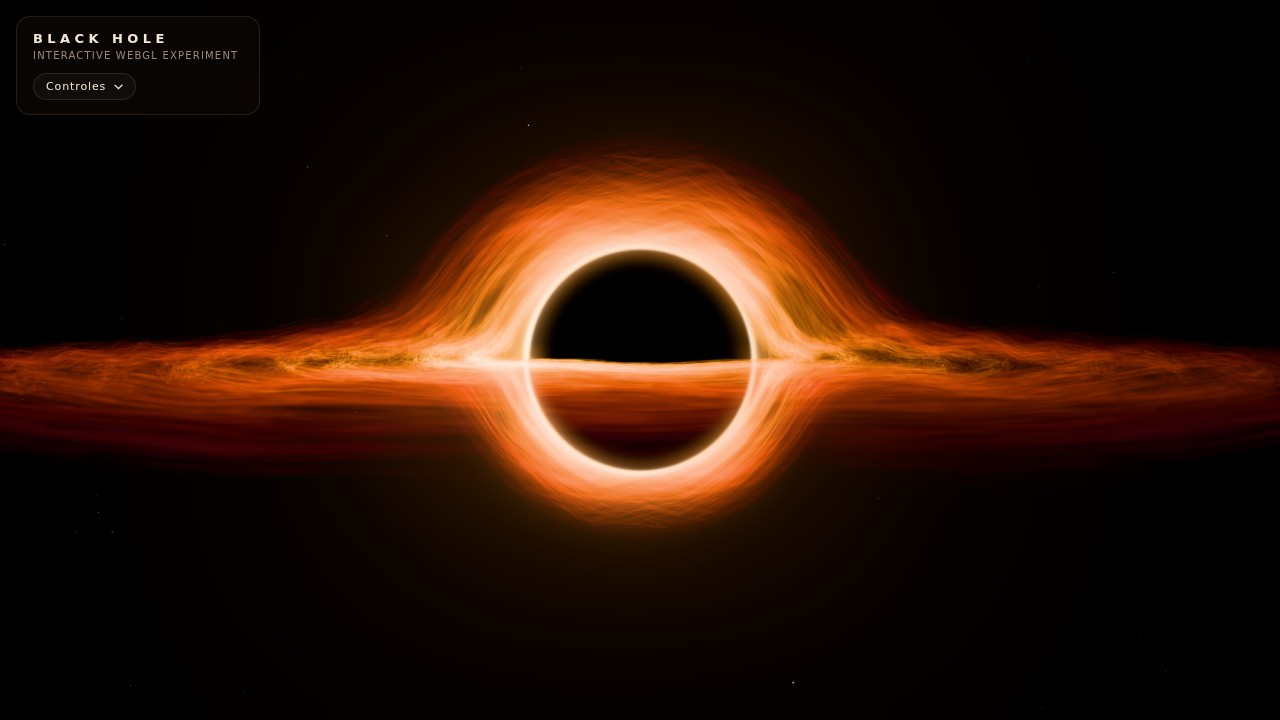
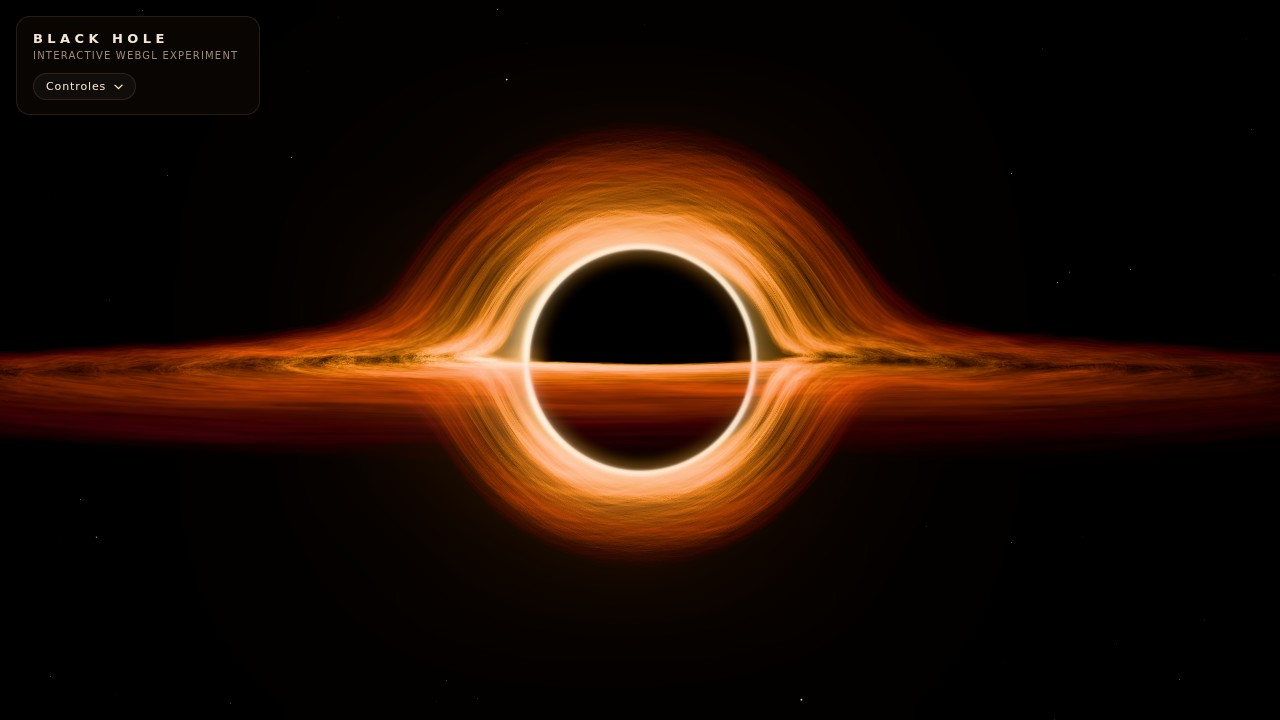
docs: document the GPU-aware launcher and the ultra profile
How iniciar.bat handles the dedicated GPU, the ?quality=ultra option, the per-GPU profile table and a new preview image.

Claude-Session: https://claude.ai/code/session_01WNvQ1jyMgnK9oouhRVHoRH

Changed region(s): [[0.0, 0.1833, 1.0, 0.7639]]

diff --git a/README.md b/README.md
@@ -21,10 +21,11 @@ Tudo roda no navegador, direto de arquivos estáticos: não há `npm install`, b
 
 - **Horizonte de eventos** totalmente preto, que nenhuma luz revela.
 - **Photon ring** fino e brilhante com aura quente (branco → amarelo → laranja → vermelho).
-- **Disco de acreção com ~60 000 fragmentos** (36 000 em GPUs integradas, 20 000 em celulares) desenhados em uma única geometria instanciada.
+- **Disco de acreção com até 110 000 fragmentos** em placas dedicadas (60 000 no perfil alto, 36 000 em GPUs integradas, 20 000 em celulares), desenhados em uma única geometria instanciada.
 - **Órbitas keplerianas**: fragmentos internos giram muito mais rápido que os externos (`ω ∝ r^-3/2`).
 - **Turbulência procedural** com *simplex noise*, que tira o disco do plano e ondula as trilhas.
 - **Temperatura por raio**: branco/amarelo perto do centro, laranja no meio e vermelho escuro nas bordas. As trilhas "esfriam" (ficam mais vermelhas) enquanto desaparecem.
+- **Anéis e sulcos concêntricos** (dois harmônicos de brilho) e **ondas espirais de densidade**: um padrão de dois braços que gira mais devagar que o gás e deixa a rotação visível mesmo nas regiões densas.
 - **Doppler relativístico aproximado**: o lado que vem em direção à câmera fica mais claro e quente, e o lado oposto mais escuro e avermelhado.
 - **Lente gravitacional aproximada**: o disco de trás se curva por cima da sombra e forma um arco secundário por baixo. As estrelas do fundo também são lenteadas.
 - **Campo de estrelas discreto**, com leve paralaxe e cintilação.
@@ -56,9 +57,17 @@ O Three.js é carregado via **importmap** a partir do jsDelivr. Nenhuma outra bi
 
 1. Baixe o projeto (*Code → Download ZIP*) e extraia a pasta.
 2. Dê dois cliques em **`iniciar.bat`**.
-3. O navegador abre sozinho em `http://localhost:8000`. Deixe a janela preta aberta enquanto usa o projeto e feche-a para parar.
+3. Na primeira vez, a janela preta pergunta se pode configurar o Windows para usar a **placa de vídeo de alto desempenho** no navegador. Aperte **Enter** (sim) ou digite `n`.
+4. O projeto abre numa janela própria do Chrome (ou Edge), já pedindo a placa dedicada. Deixe a janela preta aberta enquanto usa o projeto e feche-a para parar.
 
 O `iniciar.bat` roda `tools/servidor.ps1`, um mini servidor em PowerShell, que já vem no Windows, então não é preciso instalar nada. Se o Windows perguntar se pode executar o arquivo baixado, clique em *Mais informações → Executar assim mesmo*.
+
+Sobre a placa de vídeo, o iniciador faz duas coisas:
+
+- **Abre o projeto numa janela separada do Chrome/Edge**, com perfil próprio em `%LOCALAPPDATA%\BlackHole` e a opção `--force-high-performance-gpu`. Por ser outra instância do navegador, isso funciona mesmo com o seu Chrome já aberto e não mexe nas suas abas nem no seu perfil.
+- **Se você aceitar**, grava a preferência "Alto desempenho" do Windows para o navegador. É exatamente o que a tela *Configurações → Sistema → Tela → Elementos gráficos* faz, e pode ser desfeito por lá. Se responder `n`, ele não pergunta de novo.
+
+Para abrir no navegador padrão, numa aba comum, rode `powershell -ExecutionPolicy Bypass -File tools\servidor.ps1 -DefaultBrowser`.
 
 ### Qualquer sistema: um servidor estático
 
@@ -79,7 +88,8 @@ Parâmetros opcionais de URL:
 
 | URL | Efeito |
 | --- | --- |
-| `?quality=high` | Força a qualidade máxima e desliga o ajuste automático |
+| `?quality=ultra` | Força o perfil das placas dedicadas (110 000 trilhas mais finas) e desliga o ajuste automático |
+| `?quality=high` | Força o perfil alto (60 000 trilhas) e desliga o ajuste automático |
 | `?quality=medium` | Força o perfil médio (o mesmo usado em GPUs integradas) |
 | `?quality=low` | Força o perfil leve (o mesmo usado em celulares) |
 
@@ -95,7 +105,9 @@ O painel, no canto superior esquerdo, mostra qual está em uso:
 | 🟠 `Intel UHD Graphics` / `AMD Radeon Graphics` | GPU integrada: siga os passos abaixo |
 | 🔴 `CPU (sem aceleração de hardware)` | sem aceleração: siga os passos abaixo, começando pelo 1 |
 
-Para usar a NVIDIA no Chrome (no Edge é igual, trocando `chrome://` por `edge://`):
+**Jeito mais fácil (Windows):** abra pelo `iniciar.bat` e aceite a pergunta sobre a placa de vídeo (veja [Como executar](#como-executar)). Ele configura tudo e abre o projeto numa janela que já pede a NVIDIA.
+
+Para configurar o seu Chrome manualmente (no Edge é igual, trocando `chrome://` por `edge://`):
 
 1. No Chrome, abra **Configurações → Sistema** e ligue **Usar aceleração de gráficos quando disponível**.
 2. No Windows 10/11, abra **Configurações → Sistema → Tela → Elementos gráficos**, escolha o **Google Chrome** (se não aparecer, adicione em *Procurar* → `C:\Program Files\Google\Chrome\Application\chrome.exe`), clique em **Opções → Alto desempenho (NVIDIA ...)** e em **Salvar**.
@@ -149,7 +161,7 @@ Opções do painel:
 | Intensidade | 0.2 – 2.5 | Brilho do disco e do photon ring |
 | Partículas | 10 – 100% | Quantos fragmentos são desenhados |
 | Inclinação do disco | −30° – +30° | Inclina o disco em torno do eixo X |
-| Lente gravitacional | 0 – 2 | 0 desliga a curvatura da luz; 1 é a lente fraca "física"; o padrão é 1.3 |
+| Lente gravitacional | 0 – 2 | 0 desliga a curvatura da luz; 1 é a lente fraca "física"; o padrão é 1.45 |
 | Doppler | 0 – 1 | Intensidade do efeito Doppler/beaming |
 | Estrelas | on/off | Mostra ou esconde o fundo estrelado |
 | Resetar câmera | — | Volta suavemente para a vista inicial |
@@ -229,7 +241,16 @@ O custo do projeto está quase todo no disco: dezenas de milhares de trilhas sem
 - **Trilhas recortadas**: a geometria termina onde o brilho fica abaixo de ~20%, sem diferença visível (0,5% no brilho médio).
 - **Imagem secundária seletiva**: só as trilhas atrás do buraco, com magnificação relevante, passam pelo resto do shader. As outras são descartadas logo no início.
 - Resultado medido em 1280×720 com 60 000 partículas: **26,1 M → 15,0 M fragmentos por frame (−42%)**. Somando a remoção do MSAA, o trabalho de mistura caiu cerca de **7×**.
-- **Perfil pela GPU detectada**: dedicada com 60 000 partículas e pixel ratio até 2; integrada com 36 000 e pixel ratio até 1.25; celular com 20 000 e pixel ratio até 1.5; CPU com 20 000 e pixel ratio 1.
+- **Perfil pela GPU detectada**:
+
+  | GPU | Perfil | Trilhas | Pixel ratio | Detalhe |
+  | --- | --- | --- | --- | --- |
+  | dedicada (NVIDIA/AMD RX) | `ultra` | 110 000, mais finas | até 2 | 8 segmentos por trilha (arcos mais suaves) |
+  | desconhecida (desktop) | `high` | 60 000 | até 2 | 6 segmentos |
+  | integrada (Intel/AMD) | `medium` | 36 000 | até 1.25 | 6 segmentos |
+  | celular / CPU | `low` | 20 000 | até 1.5 / 1 | 6 segmentos |
+
+  O ultra custa 18,0 M fragmentos por frame em 1280×720 (+20% sobre o alto), muito abaixo do que uma RTX 3050 Laptop aguenta a 60 FPS.
 - **Governador de FPS**: se a média ficar abaixo de ~45 FPS, reduz primeiro a resolução interna e depois a quantidade de partículas (até 5 passos, reagindo em ~3 s). Os ajustes aparecem no console (`console.info`).
 - O relógio é limitado a 0.1 s por frame, então voltar de uma aba em segundo plano não causa saltos.
 
